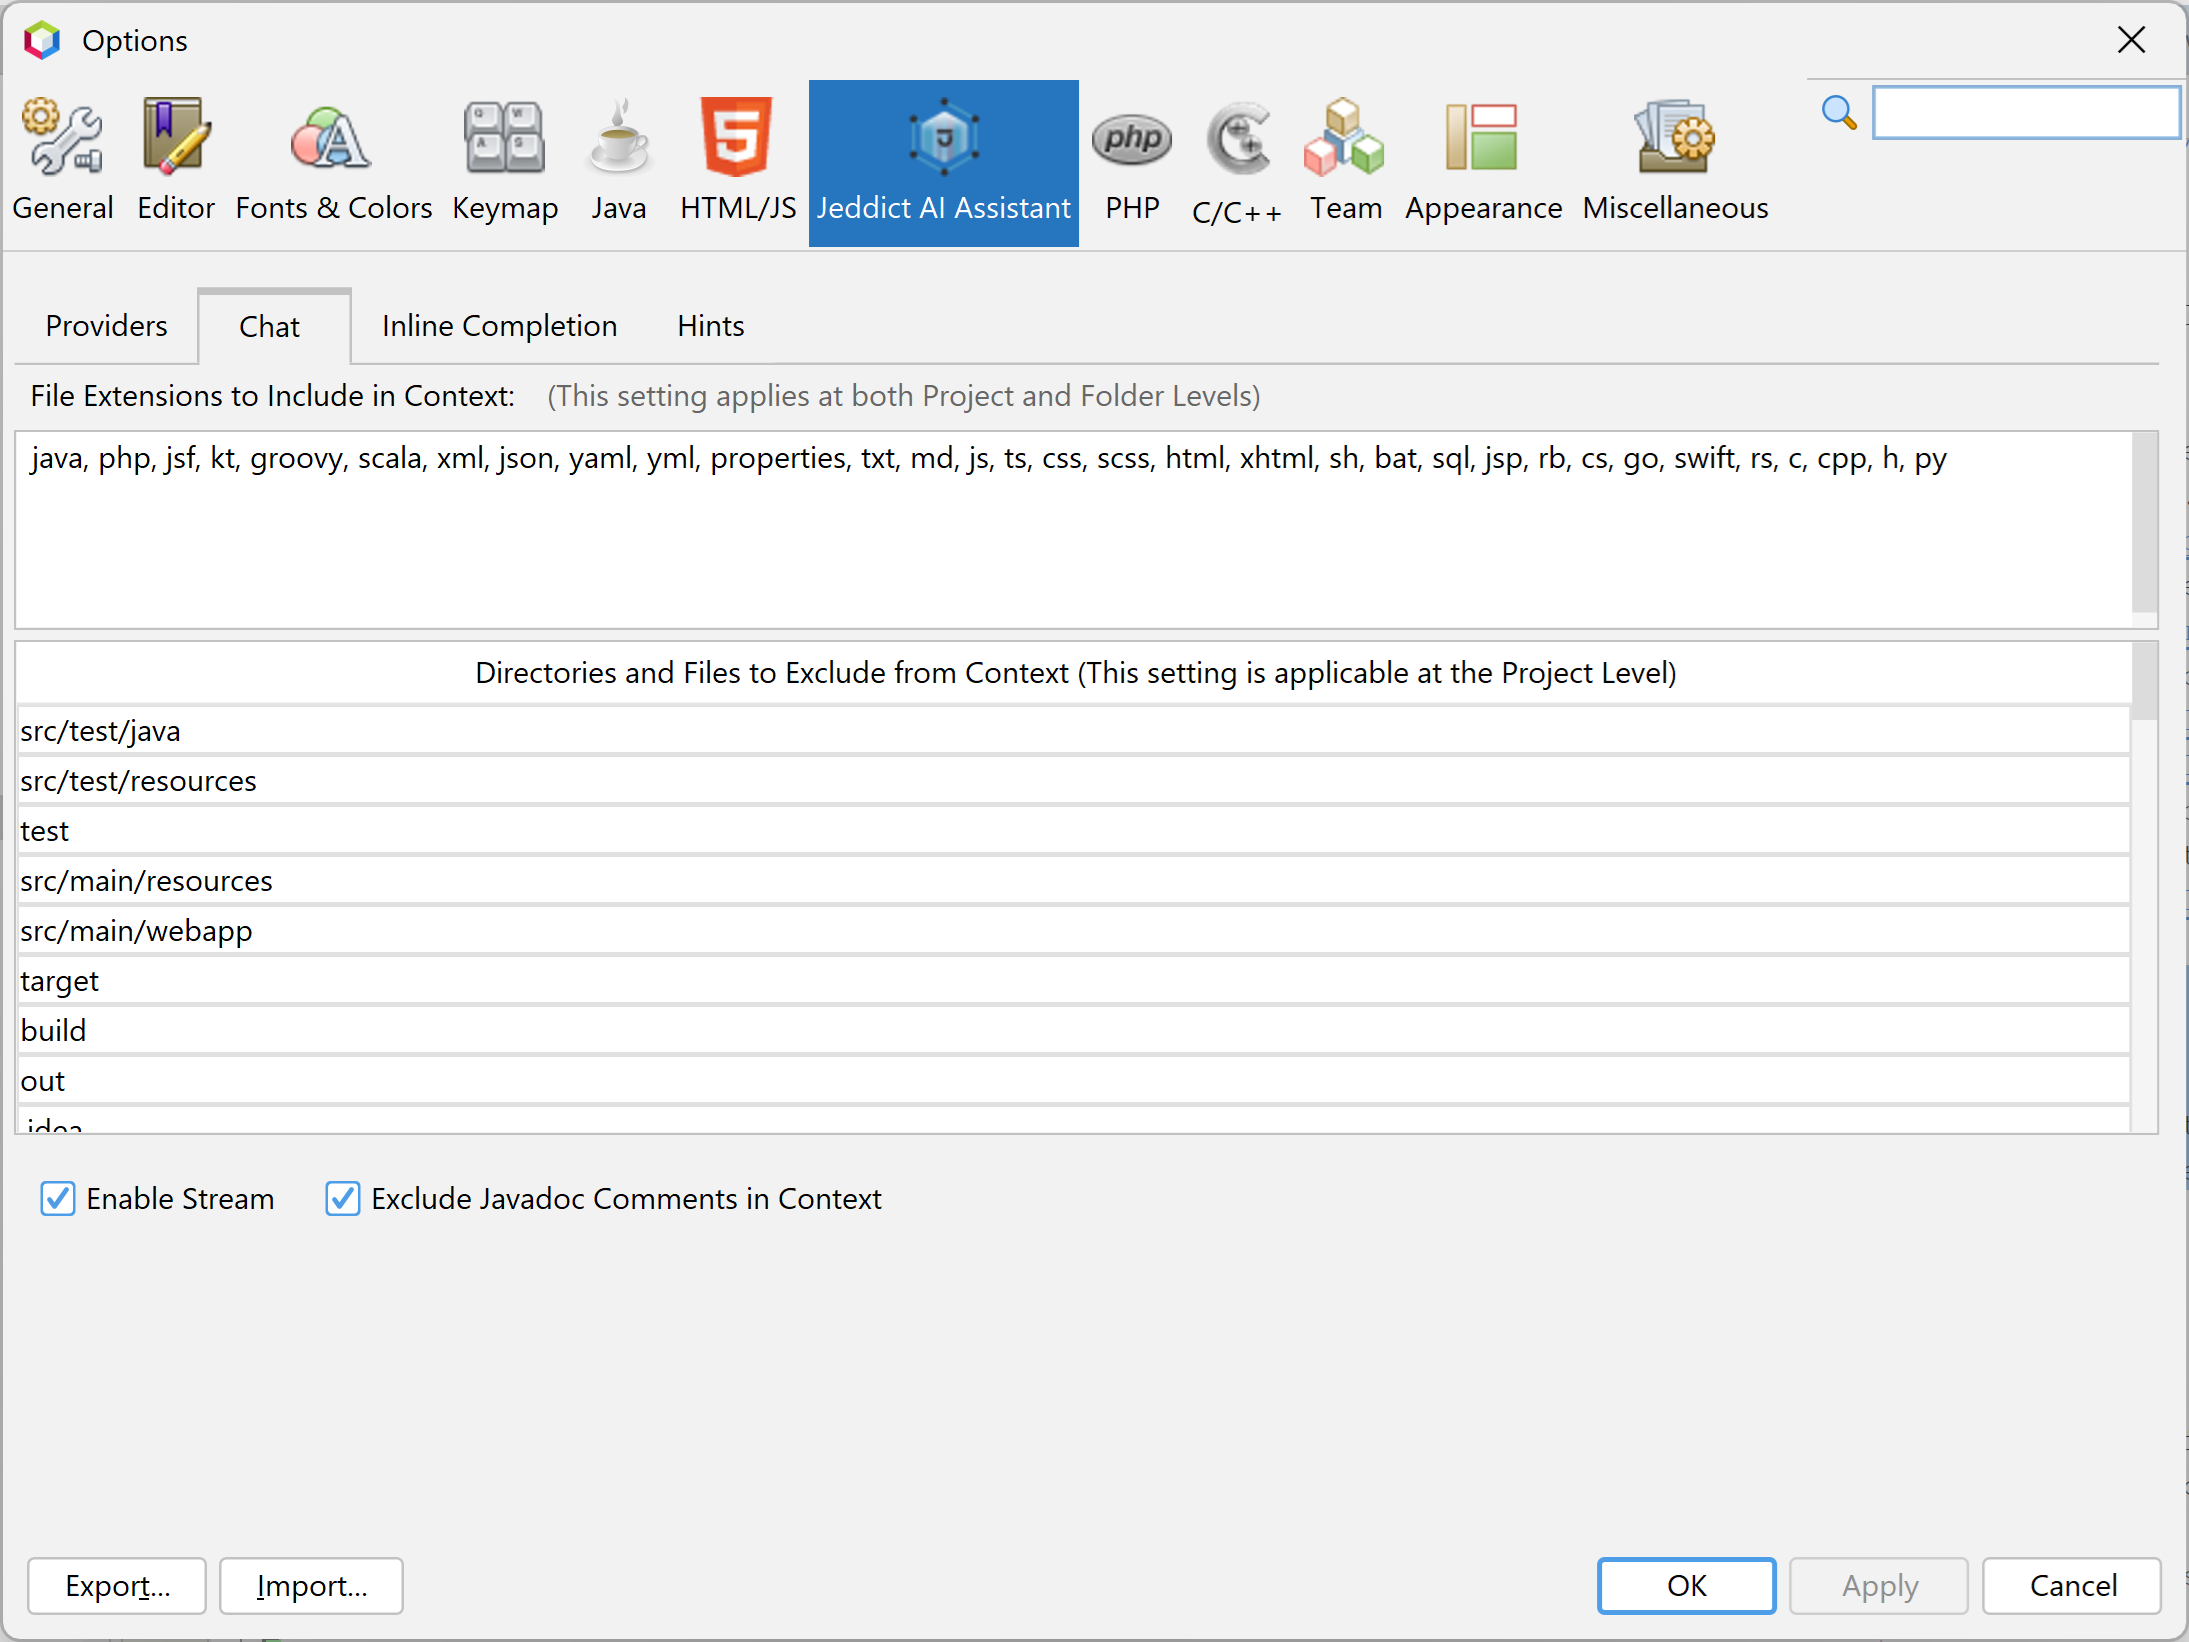
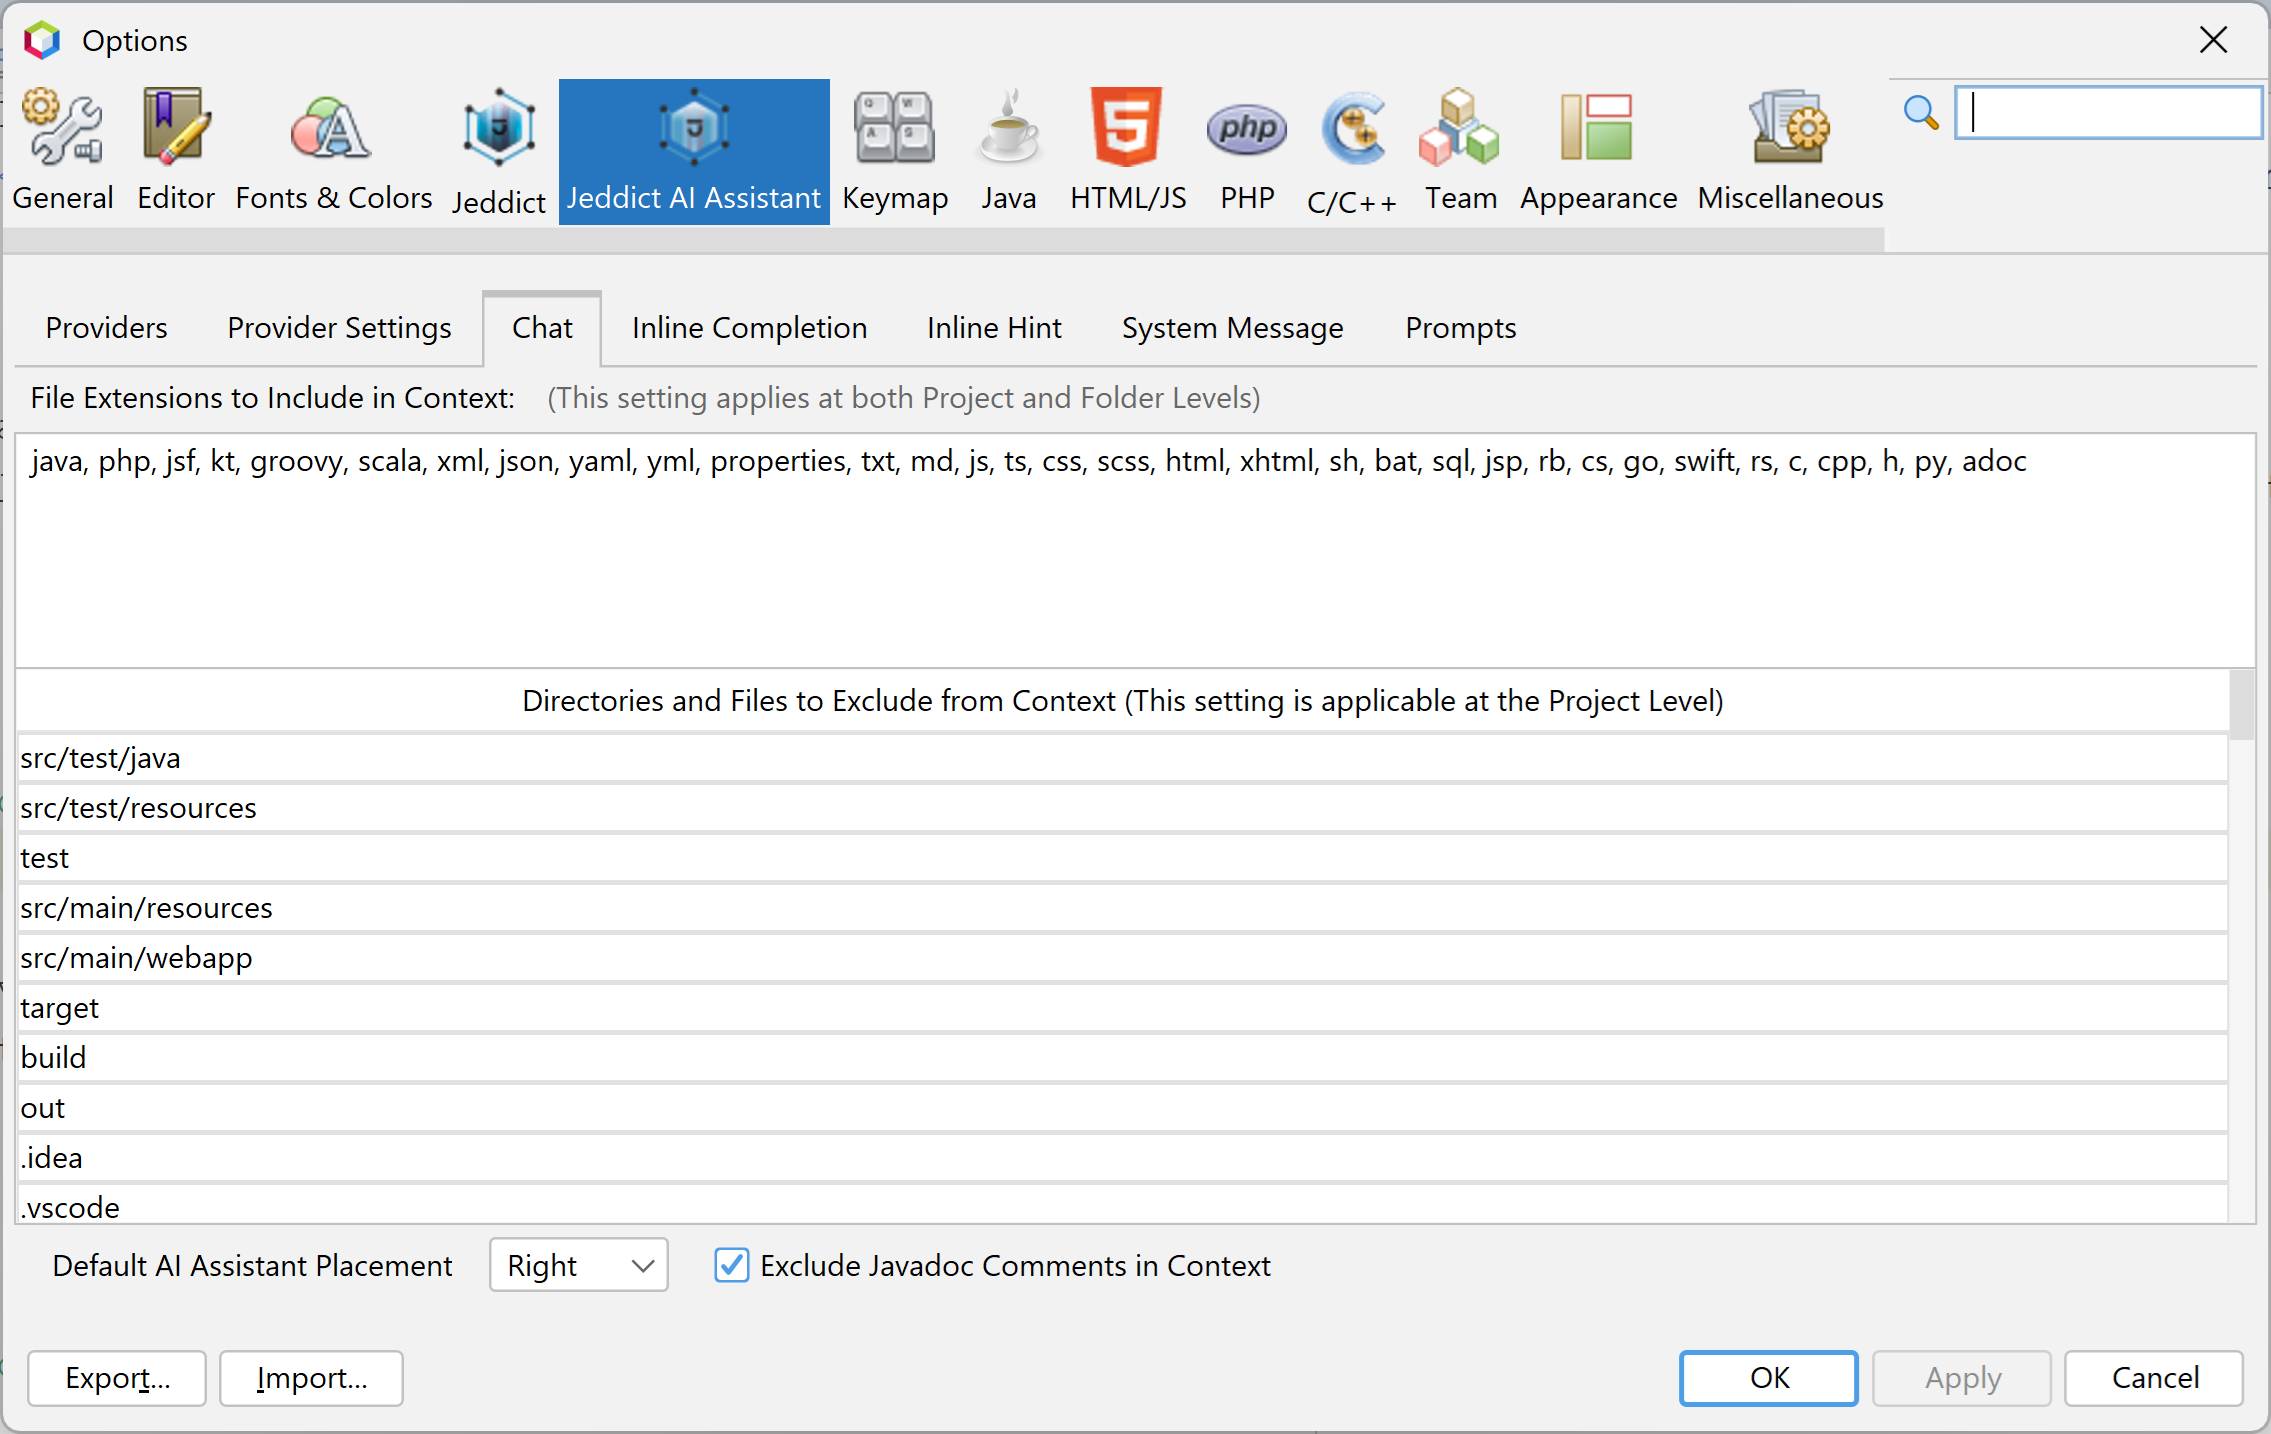
Release v2.8

diff --git a/tutorial/AI.html b/tutorial/AI.html
@@ -33,6 +33,7 @@
         <p>Boost productivity with AI-powered code completion, offering context-aware suggestions for completing code, renaming variables and methods, and improving log messages or comments.</p>
         <p><strong>How to use:</strong> Press Ctrl+Space or Ctrl+Alt+Space to see a list of relevant suggestions.</p>
         <img src="jeddict-ai/resource/0-SmartSuggestions.gif" alt="Smart Suggestions" class="feature-img" width="1200" />
+        <em>Note: The Ctrl+Space or Ctrl+Alt+Space shortcuts are switchable and configurable via <strong>Tools &gt; Options &gt; Jeddict AI Assistant &gt; Inline Completion</strong> tab.</em></p>
     </div>
 
     <div class="mb-4">
@@ -49,6 +50,25 @@
         </ul>
         This functionality enhances the coding experience by offering contextual recommendations that can improve code quality and efficiency without requiring you to navigate away from your current task.
         <img src="jeddict-ai/resource/0-InlineHints.gif" alt="Inline Hint" class="feature-img" width="800" />
+    </div>
+    
+    <div class="mb-4">
+        <h4>Providing Context to Inline Hint</h4>
+        <p>By default, the Inline Hint feature uses the existing code around the cursor as context to generate the next possible lines. 
+            However, you can also provide custom input to guide the AI more effectively:
+        </p>
+        <ul>
+            <li>
+                <strong>Use comments as hints:</strong> Write a comment in your source code describing what you want, then press Enter. The comment along with the current code will be used as context.
+                <img src="jeddict-ai/resource/InlineComment.gif" alt="Inline Hint via Comment" class="feature-img" width="800" />
+            </li>
+            <li>
+                <strong>Use saved prompts:</strong> You can define longer prompts in <em>Settings</em> and reuse them in the editor by typing <code>/${prompt-id}</code> and pressing Enter. The full saved prompt will be sent to the AI.
+                <img src="jeddict-ai/resource/InlinePrompt.gif" alt="Inline Hint via Prompt" class="feature-img" width="800" />
+            </li>
+            <li><strong>Extend saved prompts on the fly:</strong> Add more info inline using <code>/${prompt-id} your additional context</code>. The AI will process both the saved prompt and your added text.</li>
+        </ul>
+        These methods give you fine-grained control over the AI’s suggestions, helping tailor them to your current task more accurately.
     </div>
     
     <div class="mb-4">
@@ -160,6 +180,41 @@
         <p><strong>How to use:</strong> Click the Jeddict button from the top toolbar.</p>
         <img src="jeddict-ai/resource/AIChatToolBar.png" alt="AI Assistant ToolBar" class="feature-img" width="1000" />
     </div>
+
+    <div class="mb-4">
+        <h4>Chat Window Feature and Settings</h4>
+        <p>The chat window provides options to interact with the AI, incorporating files relevant to the current chat context. It includes the following features:</p>
+        <ul>
+            <li><strong>Custom Common Rules:</strong> Users can define specific rules that will be consistently applied during chat interactions, enhancing the personalization of the experience.</li>
+            <li><strong>Drag-and-Drop Files and Packages Support:</strong> Users can drag and drop files or java packages from their operating system or directly from the NetBeans project explorer into the chat input pane. These files are automatically added to the current chat context and included in the conversation, making it easy to bring in relevant code or documentation.</li>
+            <li><strong>View Files in Chat Context:</strong> This option allows users to see which files are included in the current chat context, ensuring clarity and relevance in the conversation.</li>
+            <li><strong>Copy to Clipboard:</strong> Users can easily copy all generated content to the clipboard for further use, streamlining the workflow.</li>
+            <li><strong>Save to File System:</strong> The generated source can be saved directly to the file system, allowing for easy access and organization of outputs.</li>
+            <li><strong>Update Source in Editor:</strong> This experimental feature enables users to update the source code directly within the editor, making the AI Assistant more integrated and context-aware. We are actively working to enhance this feature to make it smarter and more intelligent, ensuring that it better understands the context of the ongoing conversation and user needs. This will be a game-changing feature in the future for fueling developer productivity.</li>
+            <li><strong>View Chat History:</strong> Users can navigate through previous chat interactions, providing a reference for past inquiries and responses.</li>
+            <li><strong>Reset Chat:</strong> This option allows users to clear all chat history, starting a fresh conversation without prior context.</li>
+            <li><strong>Last Chat History Sent:</strong> For every question asked, only the most recent chat history is sent to the AI model, optimizing performance and relevance of responses.</li>
+        </ul>
+        <img src="jeddict-ai/resource/ChatWindow.png" alt="ChatWindow" class="feature-img" width="1200" />
+    </div>
+    
+    <div class="mb-4">
+        <h4>Internationalization Support</h4>
+        <p>You can configure the AI to respond in a specific language by setting a <strong>System Message</strong> in the settings panel. For example, use <em>"Respond in French"</em> to receive replies in French.</p>
+        <img src="jeddict-ai/resource/InternationalizationSettings.png" alt="Internationalization Settings" class="feature-img" width="800" />
+        <p>📝 <strong>Font Tips:</strong> Most languages work well with the default fonts, but for some languages like Hindi, you may need to use a compatible font such as <code>Nirmala UI</code> to properly render the text in the chat window and editor.</p>
+        <p>This allows seamless multilingual interaction and makes the AI Assistant more accessible and useful for developers across different regions and language preferences.</p>
+        <img src="jeddict-ai/resource/FrenchI18N.png" alt="French I18N" class="feature-img" width="800" />
+    </div>
+    
+    <div class="mb-4">
+        <h4>PlantUML and Markdown Support in Chat</h4>
+        <p>You can now view and edit <strong>PlantUML diagrams</strong> and <strong>Markdown content</strong> directly inside the chat window. When you ask for a diagram or formatted text, it’s shown instantly so you can preview and make changes before submitting.</p>
+        <p>✏ <strong>Edit in-place:</strong> Just click on the diagram or markdown block to edit it right in the chat.</p>
+        <img src="jeddict-ai/resource/PlantUML-Markdown.png" alt="PlantUML-Markdown" class="feature-img" width="800" />
+        <p>⚠ <strong>Note:</strong> Any changes you make are <em>not sent to the AI</em> until you explicitly copy-n-paste the updated content to the input box and submit them. This gives you full control before updating the conversation.</p>
+        <p>This feature makes it easy to create, tweak, and refine diagrams and documentation without switching tools—great for faster feedback and better communication.</p>
+    </div>
     
     <div class="mb-4">
         <h4>AI Commit Message</h4>
@@ -179,22 +234,6 @@
         <p>Your coding experience is further enhanced with <strong>SQL inline completion with AI</strong>, which is available in the Execute Command Window. To open this functionality, go to <strong>Services > Databases > Register DB in Apache NetBeans</strong>, right-click on your database connection, and select <strong>Execute Command...</strong>. A new window will open where you can compose SQL queries. Here, AI-powered inline completion suggestions will assist you as you write, and you can execute the query in the same window to instantly view the results, streamlining your workflow and reducing the time spent on query formulation.</p>
         <img src="jeddict-ai/resource/SQLAIInlineCompletion.png" alt="SQL AI Inline Completion" class="feature-img" width="400" />
         <img src="jeddict-ai/resource/DBExecuteCommand.gif" alt="SQL AI Inline Completion" class="feature-img" width="1400" />
-    </div>
-
-    <div class="mb-4">
-        <h4>Chat Window Feature and Settings</h4>
-        <p>The chat window provides options to interact with the AI, incorporating files relevant to the current chat context. It includes the following features:</p>
-        <ul>
-            <li><strong>Custom Common Rules:</strong> Users can define specific rules that will be consistently applied during chat interactions, enhancing the personalization of the experience.</li>
-            <li><strong>View Files in Chat Context:</strong> This option allows users to see which files are included in the current chat context, ensuring clarity and relevance in the conversation.</li>
-            <li><strong>Copy to Clipboard:</strong> Users can easily copy all generated content to the clipboard for further use, streamlining the workflow.</li>
-            <li><strong>Save to File System:</strong> The generated source can be saved directly to the file system, allowing for easy access and organization of outputs.</li>
-            <li><strong>Update Source in Editor:</strong> This experimental feature enables users to update the source code directly within the editor, making the AI Assistant more integrated and context-aware. We are actively working to enhance this feature to make it smarter and more intelligent, ensuring that it better understands the context of the ongoing conversation and user needs. This will be a game-changing feature in the future for fueling developer productivity.</li>
-            <li><strong>View Chat History:</strong> Users can navigate through previous chat interactions, providing a reference for past inquiries and responses.</li>
-            <li><strong>Reset Chat:</strong> This option allows users to clear all chat history, starting a fresh conversation without prior context.</li>
-            <li><strong>Last Chat History Sent:</strong> For every question asked, only the most recent chat history is sent to the AI model, optimizing performance and relevance of responses.</li>
-        </ul>
-        <img src="jeddict-ai/resource/ChatWindow.png" alt="ChatWindow" class="feature-img" width="1200" />
     </div>
 
     <br/><br/><br/><br/>
@@ -234,6 +273,11 @@
     <h2>Provider Settings</h2>
     <img src="jeddict-ai/resource/ProviderSettings.png" alt="Provider Settings" class="feature-img" width="600" />
 
+    <div class="mb-4">
+        <h4>Streaming Mode Activation</h4>
+        <p>The <strong>Enable Stream</strong> option significantly enhances the responsiveness of the AI Assistant, creating a more fluid and engaging interaction experience. By activating this feature, users can enjoy a chat environment that feels dynamic and interactive, allowing for quicker responses and a smoother workflow within the chat window. This is particularly beneficial during complex discussions where prompt feedback is essential for maintaining the momentum of the conversation.</p>
+    </div>
+
     <br/><br/>
     <h2>Chat Settings</h2>
     <img src="jeddict-ai/resource/AIChatSettings.png" alt="AI Chat Settings" class="feature-img" width="600" />
@@ -251,10 +295,13 @@
         <p>This setting is applicable at the Project Level within the AI Chat. To optimize results, please list the directories and files you wish to exclude, ensuring that the AI assistant focuses on the most pertinent data for your project.</p>
     </div>
     
-
-    <div class="mb-4">
-        <h4>Streaming Mode Activation</h4>
-        <p>The <strong>Enable Stream</strong> option significantly enhances the responsiveness of the AI Assistant, creating a more fluid and engaging interaction experience. By activating this feature, users can enjoy a chat environment that feels dynamic and interactive, allowing for quicker responses and a smoother workflow within the chat window. This is particularly beneficial during complex discussions where prompt feedback is essential for maintaining the momentum of the conversation.</p>
+    <div class="mb-4"> 
+        <h4>Default AI Assistant Chat Placement</h4> 
+        <p>
+            You may also configure the chat window placement using the <strong>Default AI Assistant Placement</strong> option. 
+            This allows you to choose whether the AI chat interface appears on the <strong>left</strong>, <strong>center</strong>, or <strong>right</strong>
+            of the IDE window, based on your personal layout preference for better accessibility and workflow efficiency.
+        </p> 
     </div>
 
     <div class="mb-4">
@@ -299,13 +346,6 @@
     <img src="jeddict-ai/resource/InlineHint.png" alt="Inline Hint Settings" class="feature-img" width="600" />
 
     <br/><br/>
-    <h2>Hints</h2>
-    <img src="jeddict-ai/resource/HintsSettings.png" alt="Hints Settings" class="feature-img" width="600" />
-
-    <div class="mb-4">
-        <h4>Generate Test Case Prompt</h4>
-        <p>Type the prompt for generating test cases based on your class context or project. For example: <code>Generate TestNG tests with Arquillian</code></p>
-    </div>
 
     <h3>Request a Feature or Report an Issue</h3>
     <p>
